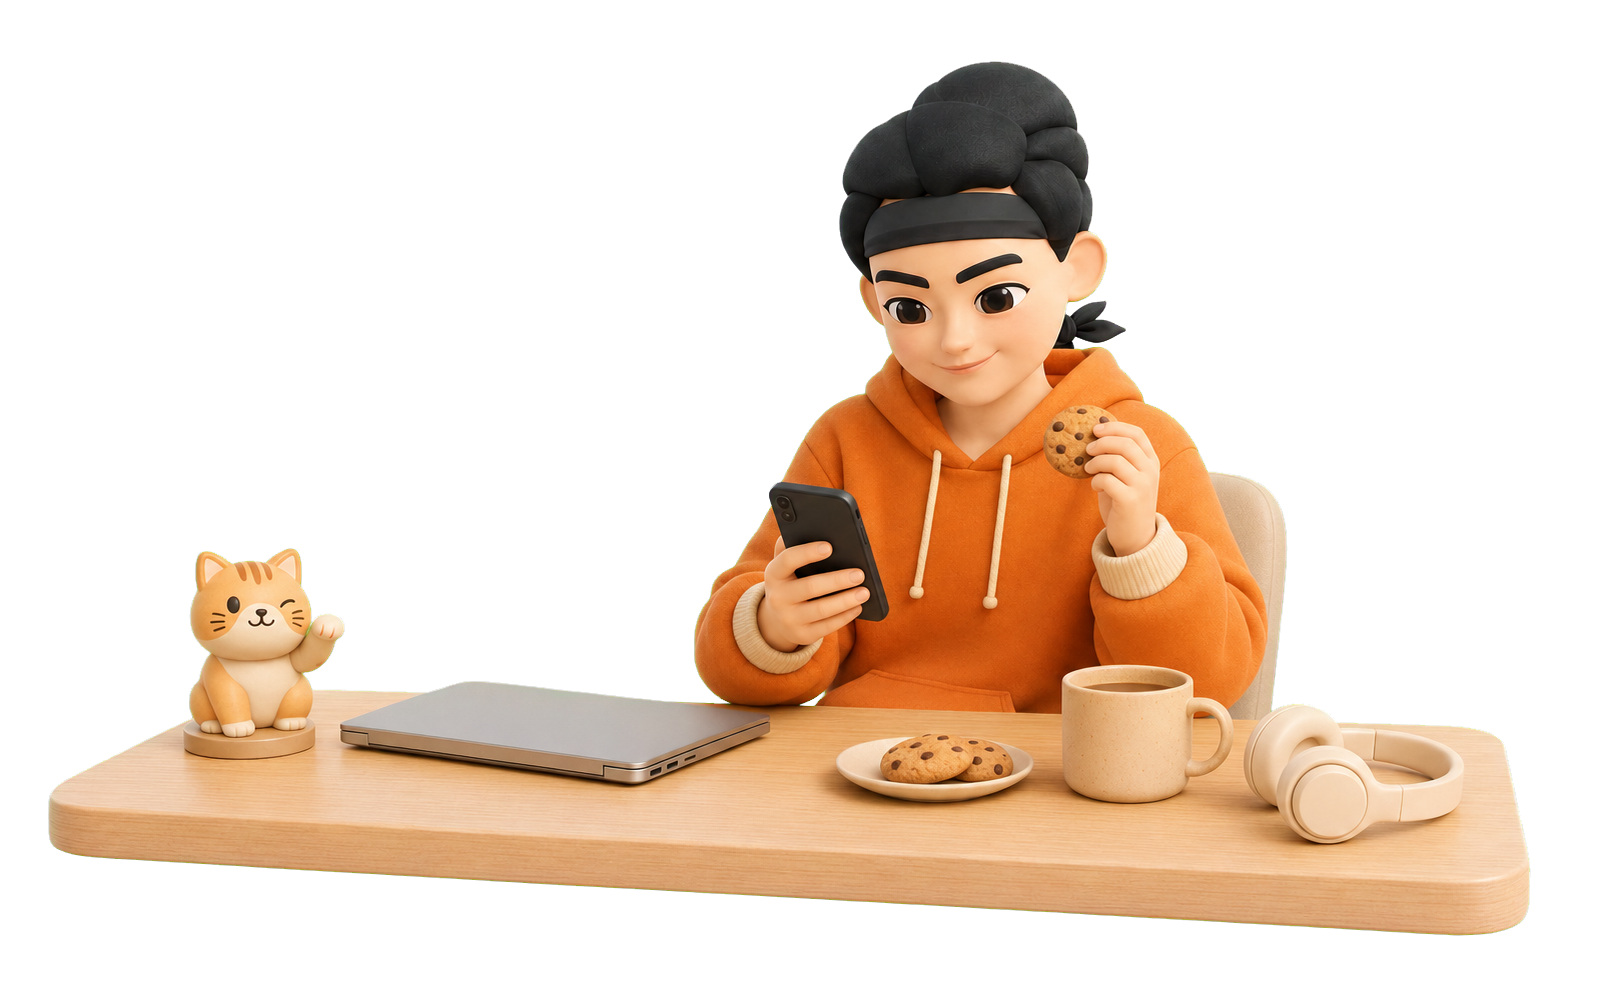
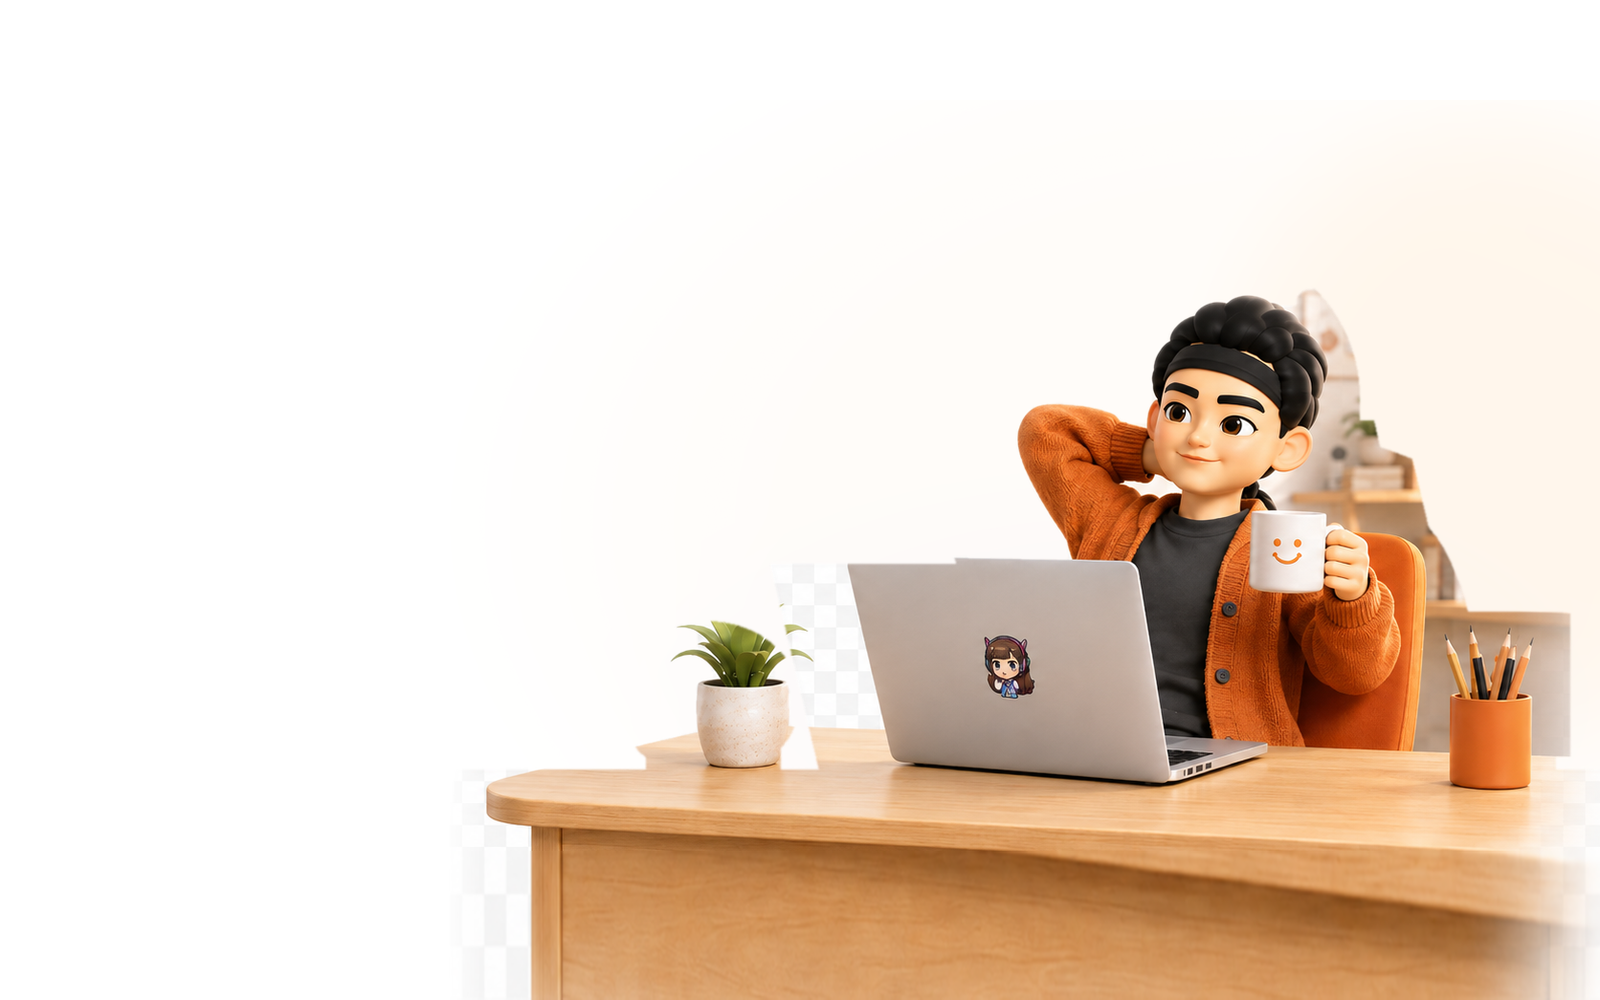
feat(home): 更新首页场景图片配置
- 替换日间工作场景图片为新的工作插画
- 将日间休息场景更新为喝咖啡放松的插画
- 用窗边休息插画替换原有的看电影场景
- 移除学习和看电影相关场景图片
- 添加新的白天工作和窗边休息图片资源
- 简化夜间场景配置，移除游戏放松场景
- 优化图片描述文本，使内容更加简洁准确

diff --git a/src/features/home/config/home.config.ts b/src/features/home/config/home.config.ts
@@ -15,33 +15,28 @@ export const homeConfig = {
         href: "/about",
       },
       visual: {
-        // 场景按主题分组；进入首页或切换主题时，从对应分组随机选择一张。
         light: [
           {
-            imageUrl: "/home/scenes/day-study.png",
-            imageAlt: "坐在书桌前学习和记录的博客作者三维插画",
+            imageUrl: "/home/scenes/day-work.png",
+            imageAlt: "在明亮书房中专注工作的博客作者",
           },
           {
             imageUrl: "/home/scenes/day-break.png",
-            imageAlt: "在书桌前吃点心看手机休息的博客作者三维插画",
+            imageAlt: "坐在书桌前喝咖啡放松的博客作者",
           },
           {
-            imageUrl: "/home/scenes/day-movie.png",
-            imageAlt: "戴着耳机在电脑前看电影的博客作者三维插画",
+            imageUrl: "/home/scenes/day-window.png",
+            imageAlt: "离开工位在窗边休息的博客作者",
           },
         ],
         dark: [
           {
             imageUrl: "/home/scenes/night-work.png",
-            imageAlt: "夜间在书桌前专注工作的博客作者三维插画",
+            imageAlt: "夜间在书桌前专注工作的博客作者",
           },
           {
             imageUrl: "/home/scenes/night-sleep.png",
-            imageAlt: "深夜趴在书桌上休息的博客作者三维插画",
-          },
-          {
-            imageUrl: "/home/scenes/night-relax.png",
-            imageAlt: "深夜在电脑前玩游戏放松的博客作者三维插画",
+            imageAlt: "深夜趴在书桌上休息的博客作者",
           },
         ],
       },
